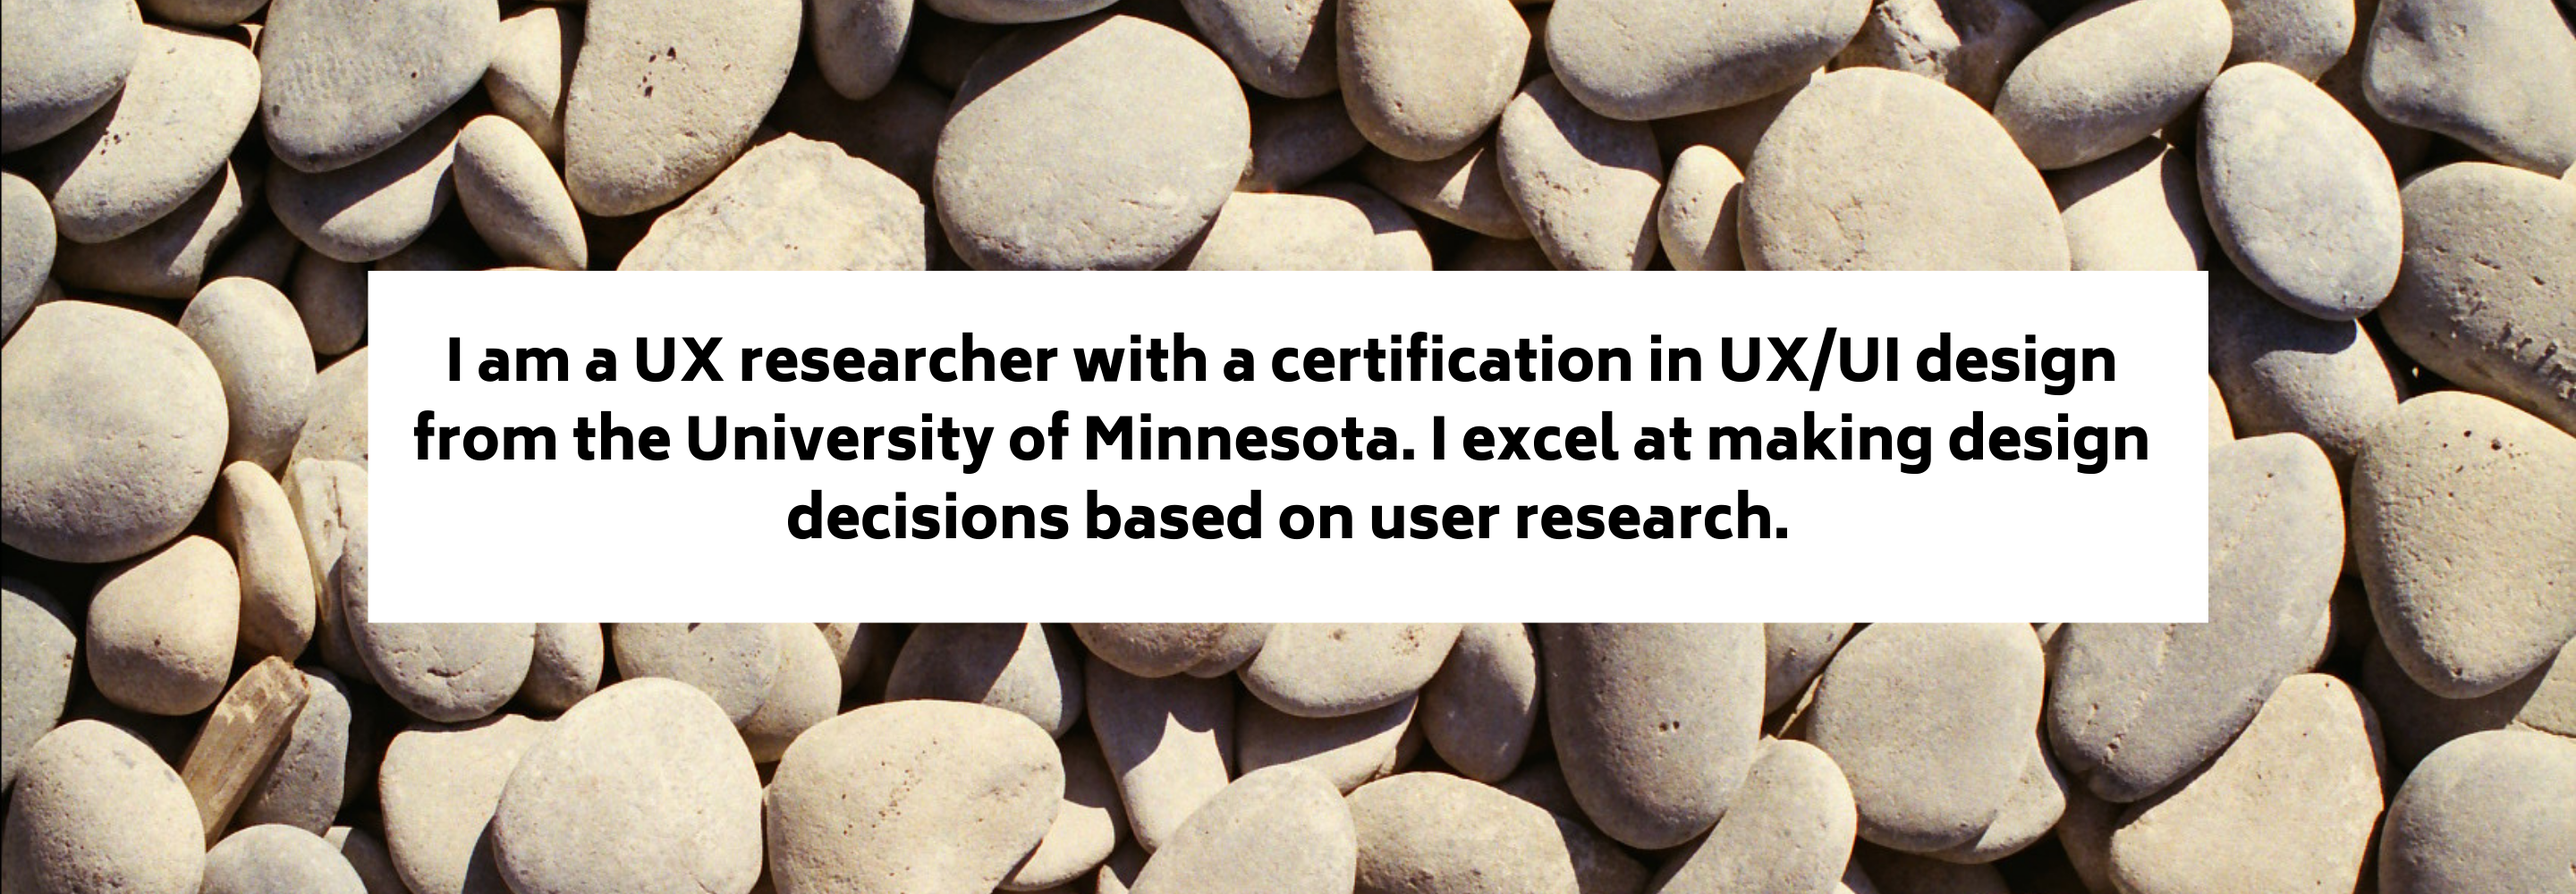
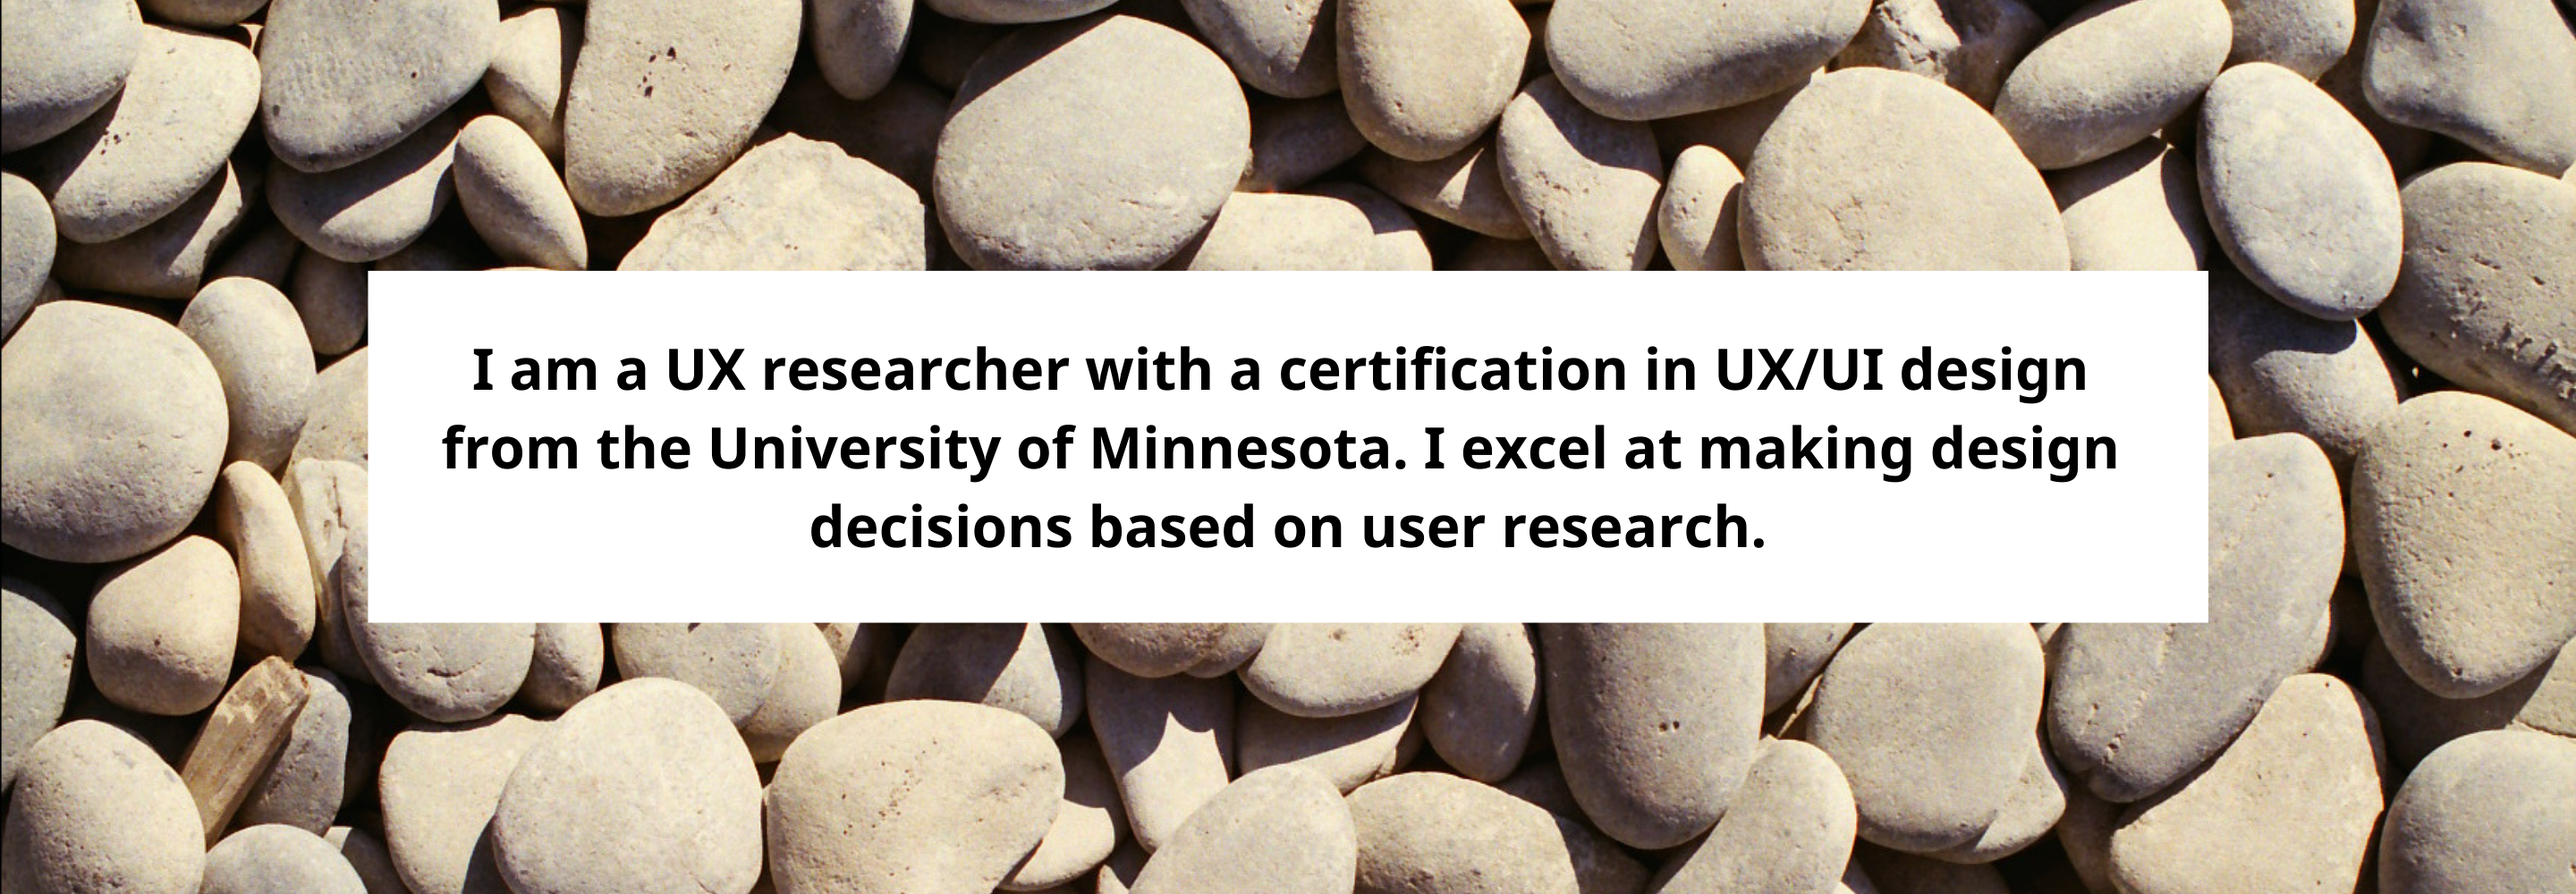
GRID!!

Changed region(s): [[0.1562, 0.372, 0.8438, 0.558], [0.2812, 0.558, 0.6875, 0.62]]

diff --git a/css/style.css b/css/style.css
@@ -1,6 +1,6 @@
 body {
     margin: 0;
-    font-family:'Lucida Sans', 'Lucida Sans Regular', 'Lucida Grande', 'Lucida Sans Unicode', Geneva, Verdana, sans-serif;
+    font-family:'Noto Sans', 'Lucida Sans', 'Lucida Sans Regular', 'Lucida Grande', 'Lucida Sans Unicode', Geneva, Verdana, sans-serif;
 }
 .navigation {
     background-color: #0077b5; 
@@ -41,85 +41,76 @@ body {
 .myWork h1 {
     text-align: center;
 }
-#workGrid {
-    margin: 10vh 23vw;
-    height: 80vh;
-    width: 54vh;
+.workGrid {
     display: grid;
-    grid-template-columns: repeat(5, 1fr);
-    grid-template-rows: repeat(4, 1fr);
-    grid-template-areas: 
-    "photo1 photo 1 summary1 summary1 button1"
-    "button2 summary2 photo2"
-    "photo3 summary3 button3"
-    "seeAll"
-    ;
-
-}
-.item1 {
-    grid-area: "photo1";
-    grid-column: 1 / 3;
-    grid-row: 1 / span 1;
-    outline: 1px solid red;
-}
-.summary1 {
-    grid-area: "summary1";
-    grid-column: 3 / 5;
-    grid-row: 1 / span 1; 
-    outline: 1px solid red;
-}
-.button1 {
-    grid-area: "button1";
-    grid-column: 5 / 6;
-    grid-row: 1 / span 1;
-    outline: 1px solid red;
-}
-.item2 {
-    grid-area: "photo2";
-    grid-column: 4 / 6;
-    grid-row: 1 / span 1;
-    outline: 1px solid red;
-}
-.summary2 {
-    grid-area: "summary2";
-    grid-column: 2 / 4;
-    grid-row: 1 / span 1;
-    outline: 1px solid red;
-}
-.button2 {
-    grid-area: "button2";
-    grid-column: 1 / 2;
-    grid-row: 1 / span 1;
-    outline: 1px solid red;
-}
-.item3 {
-    grid-area: "photo3";
-    grid-column-start: 1;
-    grid-column-end: 3;
-    grid-row: 1 / span 1;
-    outline: 1px solid red;
-}
-.summary3 {
-    grid-area: "summary3";
-    grid-column-start: 3;
-    grid-column-end: 5;
-    grid-row: 1 / span 1;
-    outline: 1px solid red;
-}
-.button3 {
-    grid-area: "button3";
-    grid-column-start: 5;
-    grid-column-end: 6;
-    grid-row: 1 / span 1;
-    outline: 1px solid red;
-}
-.item4 {
-    grid-area: "seeAll";
-    grid-column: 1 / 6;
-    grid-row: 1 / span 1;
-    outline: 1px solid red;
+    grid-template-columns: auto auto auto;
+    background-color: #2196F3;
+    padding: 10px;
+  }
+  .item1 {
+    background-color: rgba(255, 255, 255, 0.8);
+    border: 1px solid rgba(0, 0, 0, 0.8);
+    padding: 20px;
+    font-size: 30px;
     text-align: center;
-}
+  }
+  .summary1 {
+    background-color: rgba(255, 255, 255, 0.8);
+    border: 1px solid rgba(0, 0, 0, 0.8);
+    padding: 20px;
+    font-size: 30px;
+    text-align: center;
+  }
+  .button1 {
+    background-color: rgba(255, 255, 255, 0.8);
+    border: 1px solid rgba(0, 0, 0, 0.8);
+    padding: 20px;
+    font-size: 30px;
+    text-align: center;
+  }
+  .item2 {
+    background-color: rgba(255, 255, 255, 0.8);
+    border: 1px solid rgba(0, 0, 0, 0.8);
+    padding: 20px;
+    font-size: 30px;
+    text-align: center;
+  }
+  .summary2 {
+    background-color: rgba(255, 255, 255, 0.8);
+    border: 1px solid rgba(0, 0, 0, 0.8);
+    padding: 20px;
+    font-size: 30px;
+    text-align: center;
+  }
+  .button2 {
+    background-color: rgba(255, 255, 255, 0.8);
+    border: 1px solid rgba(0, 0, 0, 0.8);
+    padding: 20px;
+    font-size: 30px;
+    text-align: center;
+  }
+  .item3 {
+    background-color: rgba(255, 255, 255, 0.8);
+    border: 1px solid rgba(0, 0, 0, 0.8);
+    padding: 20px;
+    font-size: 30px;
+    text-align: center;
+  }
+  .summary3 {
+    background-color: rgba(255, 255, 255, 0.8);
+    border: 1px solid rgba(0, 0, 0, 0.8);
+    padding: 20px;
+    font-size: 30px;
+    text-align: center;
+  }
+  .button3 {
+    background-color: rgba(255, 255, 255, 0.8);
+    border: 1px solid rgba(0, 0, 0, 0.8);
+    padding: 20px;
+    font-size: 30px;
+    text-align: center;
+  }
+
 
 .AboutMe h1 {
     text-align: center;

diff --git a/index.html b/index.html
@@ -67,13 +67,24 @@
         width="900px">
       </div>
       <div>
-        <img src="images/coding_skills.png"
+        <img src="images/coding.png"
         height="600px"
         width="900px">
       </div>
     </div>
     <!-- My Work Section Constructed using CSS Grid -->
-    <div class="myWork">
+    <div class="grid-container">
+      <div class="grid-item">1</div>
+      <div class="grid-item">2</div>
+      <div class="grid-item">3</div>
+      <div class="grid-item">4</div>
+      <div class="grid-item">5</div>
+      <div class="grid-item">6</div>
+      <div class="grid-item">7</div>
+      <div class="grid-item">8</div>
+      <div class="grid-item">9</div>
+    </div>
+    <div class="myWork"> 
       <h1>My UX Work</h1>
       <div class="workGrid">
         <div class="item1">
@@ -118,7 +129,7 @@
       </div>
     </div>
     <div class="AboutMe">
-      <h1>ABOUT ME</h1>
+      <h1>About Me</h1>
       <div class="flexContainer">
         <img src="images/CMUserPersona.png">
       </div>
